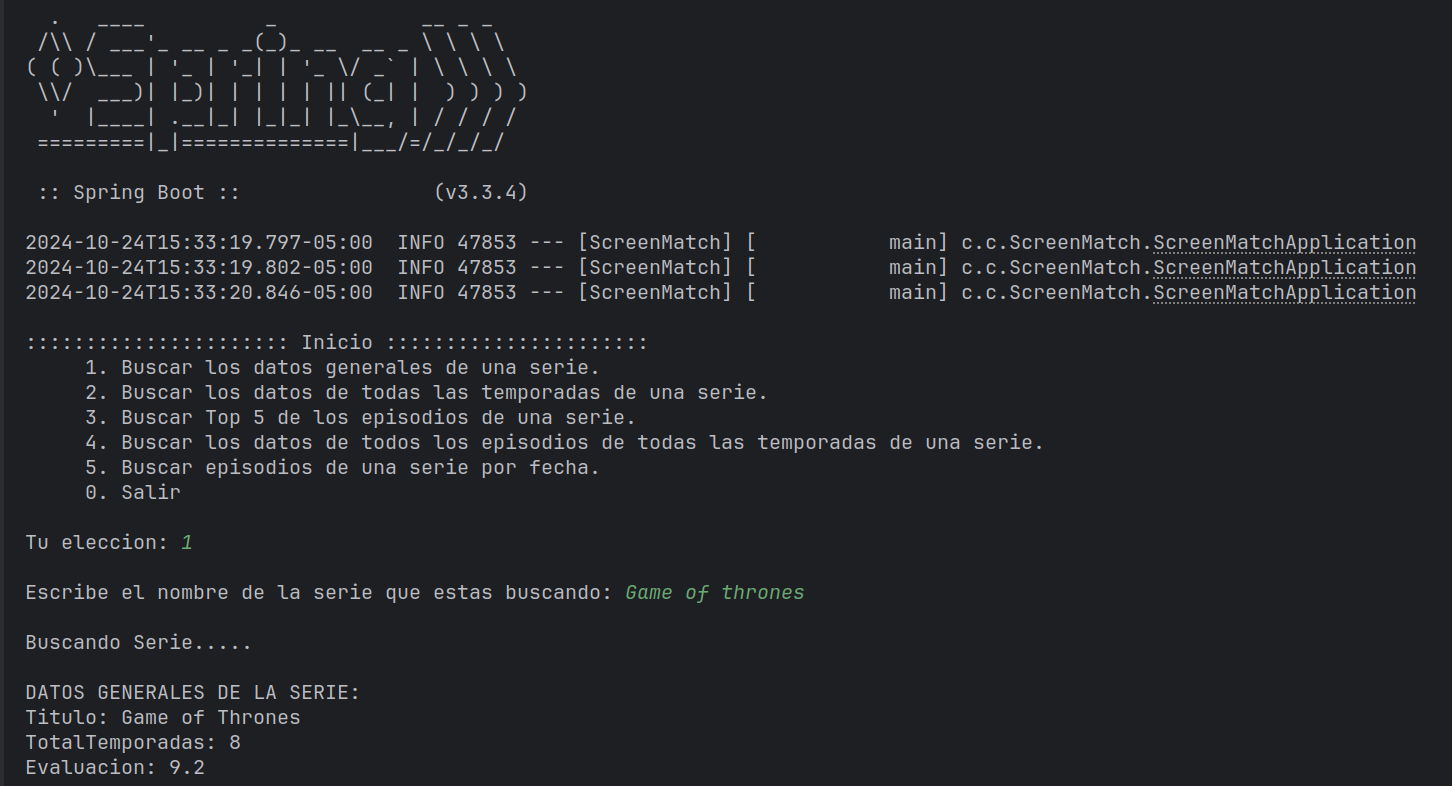
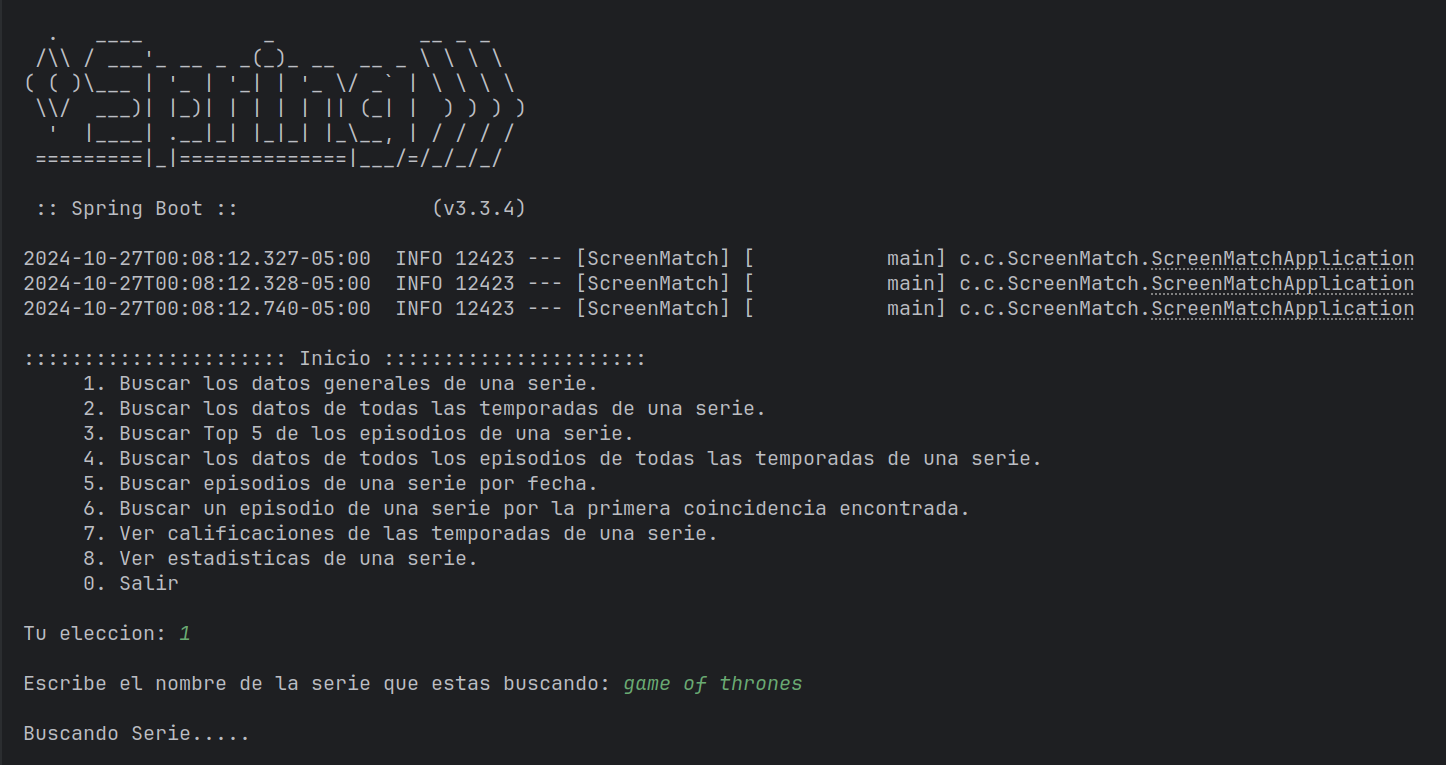
Finalizando curso de Java con Spring Boot, Lambdas y streams de Alura

diff --git a/src/main/java/com/cursospringalura/ScreenMatch/principal/Main.java b/src/main/java/com/cursospringalura/ScreenMatch/principal/Main.java
@@ -30,9 +30,11 @@ public class Main extends DatosAutenticacion {
                                     4. Buscar los datos de todos los episodios de todas las temporadas de una serie.
                                     5. Buscar episodios de una serie por fecha.
                                     6. Buscar un episodio de una serie por la primera coincidencia encontrada.
+                                    7. Ver calificaciones de las temporadas de una serie.
+                                    8. Ver estadisticas de una serie.
                                     0. Salir
                                """;
-        while (seleccionUsuario < 0 || seleccionUsuario > 6) {
+        while (seleccionUsuario < 0 || seleccionUsuario > 8) {
             System.out.print(menuPrincipal + "\nTu eleccion: ");
             try {
                  seleccionUsuario = sc.nextInt();
@@ -64,6 +66,12 @@ public class Main extends DatosAutenticacion {
                 break;
             case 6:
                 busquedaEpisodioPorFraccionTitulo();
+                break;
+            case 7:
+                evaluacionesPorTemporada(tomarNombreSerie());
+                break;
+            case 8:
+                verEstadisticasSerie(tomarNombreSerie());
                 break;
             default:
                 System.out.println("\nLa opcion que elegiste no existe");
@@ -113,11 +121,10 @@ public class Main extends DatosAutenticacion {
     }
 
     private void verTop5Episodios(String nombreSerie) {
-        List<DatosTemporada> temporadas = buscarDatosSeriePorTemporada(nombreSerie);
 
         System.out.println("\nTOP 5 EPISODIOS CON MEJOR CALIFICACION:");
         // Convertir toda la informacion a una lista de tipo DatosEpisodio
-        List<DatosEpisodio> datosEpisodios = temporadas.stream()
+        List<DatosEpisodio> datosEpisodios = buscarDatosSeriePorTemporada(nombreSerie).stream()
                 .flatMap(t -> t.episodios().stream()).collect(Collectors.toList());
 
         // Mostrar Top 5 episodios de la serie
@@ -131,10 +138,8 @@ public class Main extends DatosAutenticacion {
     private List<Episodio> verDatosDeTodosLosEpisodios(String nombreSerie) {
         System.out.println("\nBUSCANDO DATOS DE LOS EPISODIOS DE LA SERIE:");
 
-        List<DatosTemporada> temporadas = buscarDatosSeriePorTemporada(nombreSerie);
-
         // Convirtiendo los datos a una lista de tipo Episodio
-        List<Episodio> episodios = temporadas.stream()
+        List<Episodio> episodios = buscarDatosSeriePorTemporada(nombreSerie).stream()
                 .flatMap(t -> t.episodios().stream()
                         .map(d -> new Episodio(t.numeroTemporada(), d)))
                 .collect(Collectors.toList());
@@ -174,10 +179,8 @@ public class Main extends DatosAutenticacion {
         System.out.print("\nEscribe el episodio que estas buscando: ");
         String episodioBuscado = sc.nextLine();
 
-        List<Episodio> episodios = verDatosDeTodosLosEpisodios(tomarNombreSerie());
-
         // Filtrando la primera coincidencia del titulo encontrado
-        Optional<Episodio> episodioEncontrado = episodios.stream()
+        Optional<Episodio> episodioEncontrado = verDatosDeTodosLosEpisodios(tomarNombreSerie()).stream()
                 .filter(e -> e.getTitulo().toUpperCase().contains(episodioBuscado.toUpperCase()))
                 .findFirst();
 
@@ -186,5 +189,30 @@ public class Main extends DatosAutenticacion {
         } else {
             System.out.println("\nEl episodio NO fue encontrado.");
         }
+    }
+
+    private void evaluacionesPorTemporada(String nombreSerie) {
+        Map<Integer, Double> evaluaciones = verDatosDeTodosLosEpisodios(nombreSerie).stream()
+                .filter(e -> e.getEvaluacion() > 0)
+                .collect(Collectors.groupingBy(Episodio::getTemporada,
+                        Collectors.averagingDouble(Episodio::getEvaluacion)));
+
+        for (Map.Entry<Integer, Double> entry : evaluaciones.entrySet()) {
+            Integer clave = entry.getKey();
+            Double valor = entry.getValue();
+
+            System.out.println("\nTemporada: " + clave
+                    + "\nCalificacion: " + valor);
+        }
+    }
+
+    private void verEstadisticasSerie(String nombreSerie) {
+        DoubleSummaryStatistics statistics = verDatosDeTodosLosEpisodios(nombreSerie).stream()
+                .filter(e -> e.getEvaluacion() > 0)
+                .collect(Collectors.summarizingDouble(Episodio::getEvaluacion));
+
+        System.out.println("\nPromedio evaluciones: " + statistics.getAverage()
+                         + "\nMaxima calificacion obtenida de un episodio: " + statistics.getMax()
+                         + "\nCalificacion mas baja obtenida de un episodio: " + statistics.getMin());
     }
 }

diff --git a/README.md b/README.md
@@ -3,8 +3,25 @@
 ![Consultando datos serie](./imagenes/inicio.png)
 
 ## Descripcion:
-Primer proyecto en Java con Spring Boot, curso de Alura, programa
+Primer proyecto en Java con Spring Boot del curso de Alura, programa
 ONE (Oracle Next Education):
+
+Esta aplicación desarrollada en Java con Spring Boot permite realizar búsquedas 
+de series mediante la API de OMDb (https://www.omdbapi.com) para obtener sus datos. 
+
+Con esta herramienta, los usuarios pueden buscar series por nombre, realizar búsquedas por fecha, 
+visualizar estadísticas de cada temporada, consultar el top 5 de episodios 
+mejor calificados de una serie, entre otras funciones similares. 
+
+Además, se emplean técnicas de programación funcional y se aprovecha la API de Streams de Java, 
+permitiendo ejecutar operaciones intermedias y convertir los resultados en 
+colecciones específicas para facilitar el filtrado y búsqueda de series.
+<br><br>
+
+#### Informacion de todos los episodios de una serie
+![Informacion Episodios](./imagenes/episodiosSerie.png)
+
+## Objetivos:
 
 #### Creacion de proyectos con Spring Initializr:
 - Creacion de un proyecto con Spring Boot, agregando Maven como gestor de
@@ -19,3 +36,20 @@ https://www.omdbapi.com
 
 #### Introducción a la Programación Funcional en Java: 
 - Aplicación de streams para manipular colecciones de datos de manera eficiente.
+
+#### Uso de bibliotecas para manipulacion de datos y calculo de estadisticas:
+- DateTimeFormatter
+- Optional
+- DoubleSummaryStatistics
+<br><br>
+
+#### Busqueda de datos de una serie por fecha:
+![Busqueda por fecha](./imagenes/busquedaPorFecha.png)
+
+### Tecnologias y herramientas utilizadas:
+1. Java como lenguaje de programacion.
+2. Maven como gestor de dependencias.
+3. Spring Boot como framework.
+4. Postman para ejecutar pruebas a la API.
+5. Git y GitHub para el control de versiones.
+6. API de OMDb para obtener los datos.
